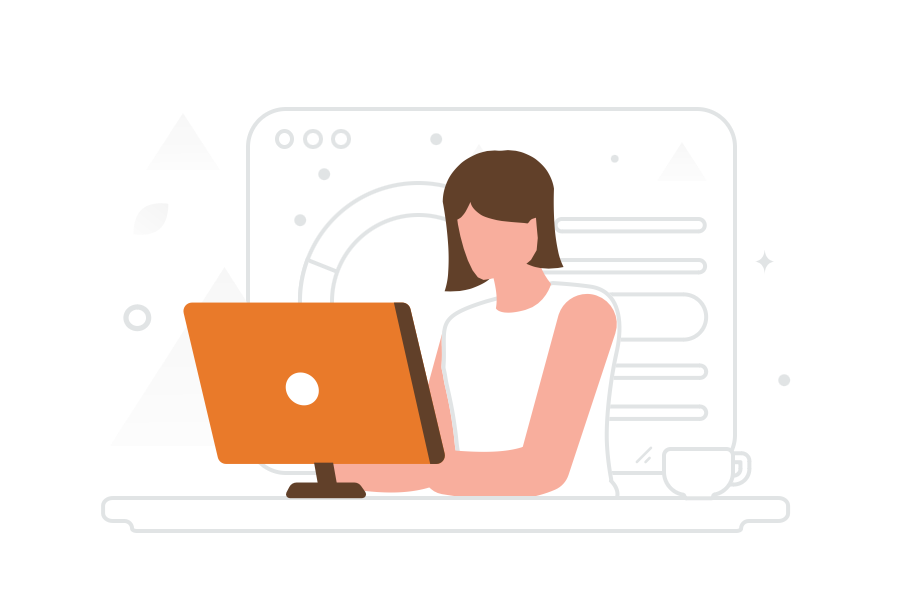
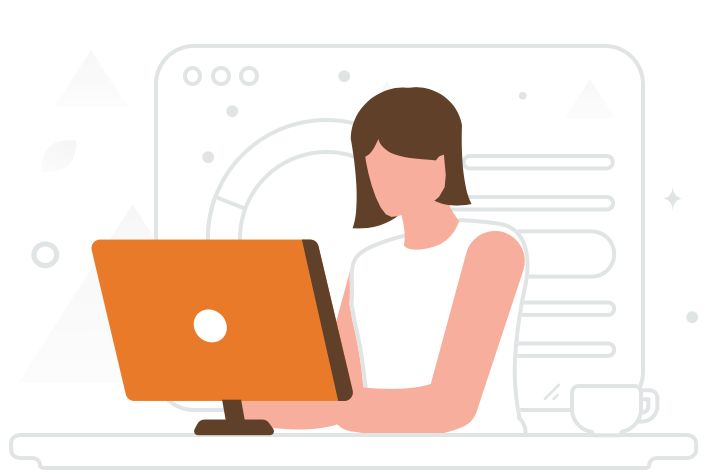
Dashboard work (#174)
* my account bases modification of style

* My account changing position

* wip

* adding dashboard tab + prefront + import image

* admin to ope

* dashboard for opérator and classes styles

* comments resolving

Changed region(s): [[0.0, 0.0888, 0.9929, 1.0], [0.031, 0.5032, 0.0931, 0.5624], [0.9619, 0.6512, 0.9929, 0.6808]]

diff --git a/client_web/src/pages/operator/OperatorBoard.tsx b/client_web/src/pages/operator/OperatorBoard.tsx
@@ -1,6 +1,43 @@
+import OperatorDashboard from '@components/operatorComponents/OperatorDashboard';
+import { NavLink, useLocation } from 'react-router-dom';
+import OperatorMyWaitingRoomPage from './OperatorMyWaitingRoomPage';
+
 function OperatorBoard() {
+  const location = useLocation();
+
+  const activeStyle = {
+    color: '#f97316',
+  };
   return (
-    <div>OperatorServices</div>
+    <>
+      <div>
+        <div className="flex flex-col items-center mb-4">
+          <h1 className="f-main-title">Tableau de bord</h1>
+        </div>
+        <div className="flex flex-row justify-around text-2xl">
+          <NavLink
+            to="/operator/dashboard"
+            end
+            style={({ isActive }) => (isActive ? activeStyle : undefined)}
+          >
+            Mon service
+          </NavLink>
+          <NavLink
+            to="/operator/dashboard/mywaitingroom"
+            style={({ isActive }) => (isActive ? activeStyle : undefined)}
+          >
+            Ma salle d'attente
+          </NavLink>
+        </div>
+        <div className="f-decoration-line-for-tab" />
+      </div>
+      {location.pathname === '/operator/dashboard' && (
+      <OperatorDashboard />
+      )}
+      {location.pathname === '/operator/dashboard/mywaitingroom' && (
+      <OperatorMyWaitingRoomPage />
+      )}
+    </>
   );
 }
 export default OperatorBoard;

diff --git a/client_web/src/components/forms/ChangePasswordForm.tsx b/client_web/src/components/forms/ChangePasswordForm.tsx
@@ -45,7 +45,7 @@ function ChangePasswordForm(props:Props) {
             type={showPassword ? 'text' : 'password'}
             placeholder="Nouveau mot de passe"
             {...register('newPassword', { onChange: handleChangeNewPassword, value: newPasswordValue })}
-            className="border rounded w-[20rem] py-2 pl-10 text-gray-700 focus:outline-none mb-8"
+            className=".f-input-first-login"
           />
           {showPassword ? (
             <EyeIcon {...iconProps} />
@@ -59,7 +59,7 @@ function ChangePasswordForm(props:Props) {
             type={showPassword ? 'text' : 'password'}
             placeholder="Verifier le mot de passe"
             {...register('checkPassword', { onChange: handleChangeCheckPassword, value: checkPasswordValue })}
-            className="border rounded w-[20rem] py-2 pl-10 text-gray-700 focus:outline-none mb-8"
+            className=".f-input-first-login"
           />
         </div>
         <button
@@ -69,7 +69,7 @@ function ChangePasswordForm(props:Props) {
         >
           Valider
         </button>
-        {error && <div className="text-red-600 w-80 mt-4 text-center text-sm">{error}</div>}
+        {error && <div className="f-error-message w-80 mt-4 text-sm">{error}</div>}
       </div>
     </form>
   );

diff --git a/client_web/src/components/operatorComponents/OperatorDashboard.tsx b/client_web/src/components/operatorComponents/OperatorDashboard.tsx
@@ -1,0 +1,31 @@
+import ManWithComputer from '../../assets/illustrations/ManWithComputer.png';
+
+function OperatorDashboard() {
+  return (
+    <div>
+      <div className="flex flex-col space-y-4 mt-4">
+        <div className="bg-gray-200 rounded-2xl">
+          <h2 className="f-dashboard-titles">Mon ticket en cours</h2>
+        </div>
+        <div className="flex flex-row space-x-4">
+          <div className="bg-gradient-to-b from-orange-500 to-red-500 w-1/3 rounded-2xl">
+            <h2 className="f-dashboard-titles text-white">Tickets en attentes</h2>
+          </div>
+          <div className="bg-gray-200 w-1/3 rounded-2xl">
+            <h2 className="f-dashboard-titles">Tickets suspendus</h2>
+          </div>
+          <div className="flex flex-col justify-between">
+            <div className="rounded-2xl">
+              <h2 className="f-dashboard-titles text-center">Opérateurs sur le service</h2>
+            </div>
+            <img className="w-[350px]" src={ManWithComputer} alt="WomanWithComputer" />
+          </div>
+        </div>
+        <div className="bg-gray-200 rounded-2xl">
+          <h2 className="f-dashboard-titles">Vue d'ensemble</h2>
+        </div>
+      </div>
+    </div>
+  );
+}
+export default OperatorDashboard;

diff --git a/client_web/src/components/forms/AuthForm.tsx b/client_web/src/components/forms/AuthForm.tsx
@@ -6,6 +6,7 @@ import {
 } from '@heroicons/react/24/solid';
 import { XCircleIcon, ArrowRightCircleIcon } from '@heroicons/react/24/outline';
 import Loader from '@assets/Loader';
+import WomanWithCommputer from '../../assets/illustrations/WomanWithComputer.png';
 
 interface Props {
     onLogin: (formData:UserConnexion) => void,
@@ -46,7 +47,7 @@ function AuthForm(props: Props) {
         <p className="text-xl">dans les établissements de santé</p>
       </div>
       <div>
-        <img className="w-[500px]" src="./src/assets/illustrations/WomanWithComputer.png" alt="WomanWithComputer" />
+        <img className="w-[500px]" src={WomanWithCommputer} alt="WomanWithComputer" />
       </div>
       <div>
         <form onSubmit={handleSubmit(onLogin)} className="bg-white shadow-xl rounded px-8 pt-6 pb-8 mb-4 w-full max-w-sm">
@@ -97,7 +98,7 @@ function AuthForm(props: Props) {
                 <Loader />
               </div>
               )}
-              {error && <div className="text-red-600">{error}</div>}
+              {error && <div className="f-error-message">{error}</div>}
             </div>
           </div>
         </form>

diff --git a/client_web/src/index.css b/client_web/src/index.css
@@ -21,6 +21,7 @@
     }
 
     html {
+        background-color: #e5e7eb;
         font-family: 'Nunito-regular', sans-serif;
     }
 
@@ -66,16 +67,28 @@
         @apply flex flex-row items-center pb-6 hover:underline decoration-2 cursor-pointer;
     }
 
+    .f-dashboard-titles {
+        @apply ml-10 mt-4 text-2xl;
+    }
+
     /* ------- input components ------- */
 
     .f-input {
         @apply border rounded w-[15rem] py-2 px-4 text-gray-700 focus:outline-none mb-2;
     }
 
+    .f-input-first-login {
+        @apply border rounded w-[20rem] py-2 pl-10 text-gray-700 focus:outline-none mb-8;
+    }
+
     /* ------- decoration components ------- */
 
     .f-decoration-line {
         @apply h-[2px] w-full bg-gray-300 mt-5;
+    }
+
+    .f-decoration-line-for-tab {
+        @apply h-[2px] w-full bg-gray-300 mt-1;
     }
 
     .f-services-card-decoration {
@@ -113,4 +126,11 @@
     .f-auth-icon {
         @apply absolute left-2 top-2 w-6 text-orange-500;
     }
+
+        /* ------- errors message ------- */
+
+    .f-error-message {
+        @apply text-red-600 text-center;
+    }
+
 }

diff --git a/client_web/src/App.tsx b/client_web/src/App.tsx
@@ -15,6 +15,7 @@ import ClientPage from '@pages/client/ClientPage';
 import FirstConnectionPage from '@pages/operator/FirstConnectionPage';
 import { RoleEnum } from '@utils/enum/RoleEnum';
 import MyAccountPage from '@pages/MyAccountPage';
+import MyWaitingRoomPage from '@pages/operator/OperatorMyWaitingRoomPage';
 
 function App() {
   const { data: currentUser, client } = useQuery(PROFILE, { errorPolicy: 'ignore' });
@@ -66,7 +67,9 @@ function App() {
               )}
             >
               <Route path="services" element={<OperatorPage />} />
-              <Route path="dashboard" element={<OperatorBoard />} />
+              <Route path="dashboard" element={<OperatorBoard />}>
+                <Route path="mywaitingroom" element={<MyWaitingRoomPage />} />
+              </Route>
               <Route path="myaccount" element={<MyAccountPage />} />
 
             </Route>

diff --git a/client_web/src/layouts/StaffLayout.tsx b/client_web/src/layouts/StaffLayout.tsx
@@ -17,7 +17,7 @@ function StaffLayout(props:Props) {
   return (
     <div className="flex justify-center bg-gray-200 min-h-screen">
       {currentUser && currentUser! ? (
-        <div className="flex w-[80rem]">
+        <div className="flex w-[85rem]">
           <Menu userProfile={currentUser} client={client} />
           <div className="w-full bg-white m-5 p-5 rounded-xl shadow-xl ml-[16rem]">
             <Outlet context={{ userProfile: currentUser }} />

diff --git a/client_web/src/components/menu/Menu.tsx b/client_web/src/components/menu/Menu.tsx
@@ -68,7 +68,7 @@ function Menu({ userProfile, client }: Props) {
             Mon compte
           </div>
         </NavLink>
-        <div className="flex flex-row items-center text-red-600 pb-6 hover:underline decoration-2 cursor-pointer mb-6">
+        <div className="f-error-message flex flex-row pb-6 hover:underline decoration-2 cursor-pointer mb-6">
           <ArrowLeftOnRectangleIcon className="w-7 mr-4" />
           <button
             type="button"

diff --git a/client_web/src/pages/admin/AdminPage.tsx b/client_web/src/pages/admin/AdminPage.tsx
@@ -1,10 +1,11 @@
 function AdminPage() {
   return (
-    <div className="f-title-format">
-      <h1 className="f-main-title">Tableau de bord</h1>
-      <div className="f-decoration-line" />
+    <div>
+      <div className="flex flex-col items-center mb-4">
+        <h1 className="f-main-title">Tableau de bord</h1>
+        <div className="f-decoration-line" />
+      </div>
     </div>
-
   );
 }
 export default AdminPage;

diff --git a/client_web/src/pages/operator/OperatorMyWaitingRoomPage.tsx b/client_web/src/pages/operator/OperatorMyWaitingRoomPage.tsx
@@ -1,0 +1,8 @@
+function OperatorMyWaitingRoomPage() {
+  return (
+    <div>
+      Ma salle d'attente
+    </div>
+  );
+}
+export default OperatorMyWaitingRoomPage;

diff --git a/client_web/src/components/operatorComponents/OperatorWaitingRoom.tsx b/client_web/src/components/operatorComponents/OperatorWaitingRoom.tsx
@@ -1,0 +1,8 @@
+function OperatorWaitingRoom() {
+  return (
+    <div>
+      Ma salle d'attente
+    </div>
+  );
+}
+export default OperatorWaitingRoom;

diff --git a/client_web/src/pages/operator/OperatorPage.tsx b/client_web/src/pages/operator/OperatorPage.tsx
@@ -1,7 +1,8 @@
 function OperatorPage() {
   return (
-    <p>OperatorPage</p>
-
+    <div>
+      hello
+    </div>
   );
 }
 export default OperatorPage;
